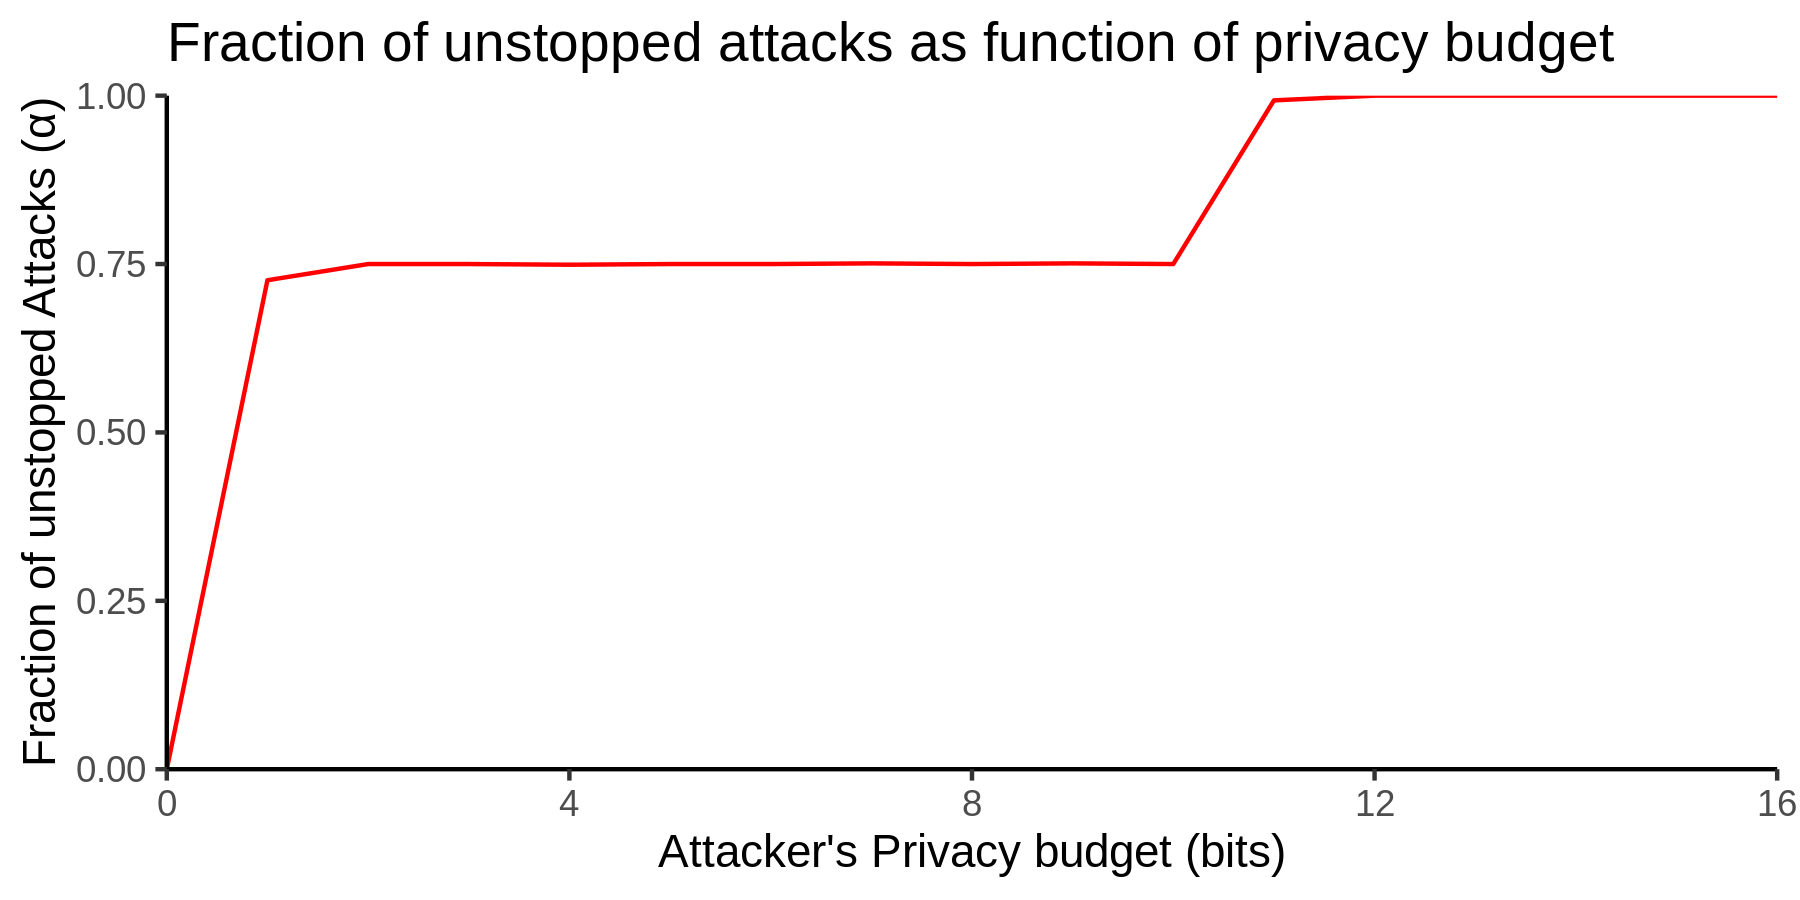
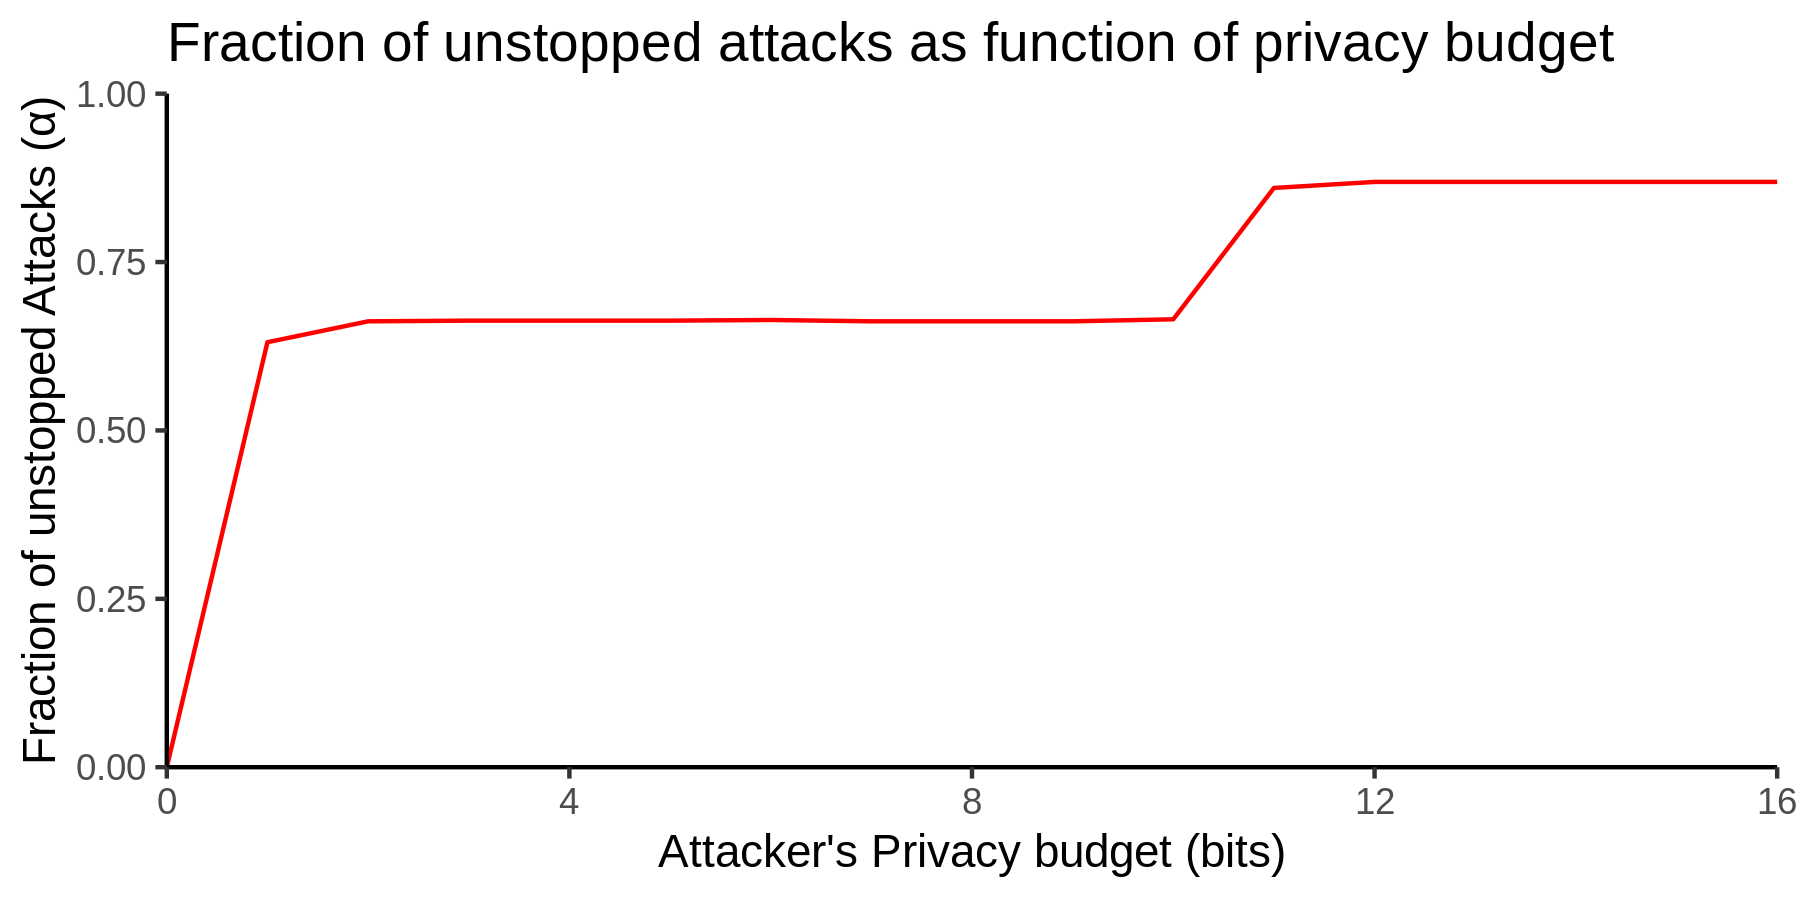
FIX: Perculation threshold corresponds to access level rather than levelAvail. Account for failMode.

diff --git a/Scripts/percolation.py b/Scripts/percolation.py
@@ -53,7 +53,7 @@ class Perc:
 
     def q(self, a, b):
         e = self.network.get_edge(a, b)
-        return e["levelAvail"]
+        return e["level"]
 
     def m(self, a, b):
         e = self.network.get_edge(a, b)
@@ -62,6 +62,14 @@ class Perc:
     def f(self, a, b):
         e = self.network.get_edge(a, b)
         return 1 - e["privAvail"]
+
+    def f_access(self, a, b):
+        e = self.network.get_edge(a, b)
+        return 1 - e["levelAvail"]
+
+    def f_mode(self, a, b):
+        e = self.network.get_edge(a, b)
+        return e["failMode"]
 
     def z(self, a, b):
         return self.zs[(a, b)]
@@ -76,12 +84,22 @@ class Perc:
 
     # this is the most important function to define (rest will follow)
     def c_ab(self, a, b):
-        if self.q(a, b) > self.rho and self.z(a, b) < self.f(a, b):
-            return 0
+        z0, z1 = self.z(a, b)
+        access_permission = self.q(a, b) > self.rho
+        access_failure = z0 < self.f_access(a, b)
+        access_failure_mode = self.f_mode(a, b)
+        sensor_failure = z1 < self.f(a, b)
 
-        if self.q(a, b) > self.rho and self.z(a, b) >= self.f(a, b):
+        if access_failure_mode == "failclosed":
+            has_access = access_permission and not access_failure
+        else:
+            has_access = access_permission or access_failure
+
+        if has_access:
+            if sensor_failure:
+                return 0
             return self.m(a, b)
-        
+
         return float("inf")
 
     def c_star_od(self, o, d, budget=float("inf")):
@@ -153,7 +171,7 @@ def alpha(network, budget, integral_steps=4, rand_steps=1000):
         for _ in range(rand_steps):
             # Todo: use a seed for repeatability
             zs = {
-              (i, j): random.random()
+              (i, j): [random.random(), random.random()]
               for (i, j) in network.get_edge_keys()
             }
             perc = Perc(network, rho, zs, budget)

diff --git a/Scripts/extract_network.py b/Scripts/extract_network.py
@@ -39,22 +39,23 @@ def extract(twin_json):
         level = level_total(list_get("accessLevel", ac))
         level_avail = level_avail_total(list_get("availability", ac))
         level_failmode = level_fail_total(list_get("failMode", ac))
-        es = [
-            {
-                "from": dtId(i),
-                "to": dtId(j),
-                "priv": priv,
-                "privAvail": priv_avail,
-                "level": level,
-                "levelAvail": level_avail,
-                "failMode": level_failmode
-            }
-            for i in fr for j in to
-        ]
-        edges += es
+        if t.get("direction", "twoway") in ["twoway", "oneway"]:
+            es = [
+                {
+                    "from": dtId(i),
+                    "to": dtId(j),
+                    "priv": priv,
+                    "privAvail": priv_avail,
+                    "level": level,
+                    "levelAvail": level_avail,
+                    "failMode": level_failmode
+                }
+                for i in fr for j in to
+            ]
+            edges += es
         # Assume we can also exit through door (unless specified otherwise).
-        # Assume that we don't need to prove access to exit via door
-        if t.get("direction", "twoway") == "twoway":
+        # Assume that we don't need to pass access check to exit via door (i.e. only need key/card to enter)
+        if t.get("direction", "twoway") in ["twoway", "reverse"]:
             es_reverse = [
                 {
                     "from": dtId(j),
